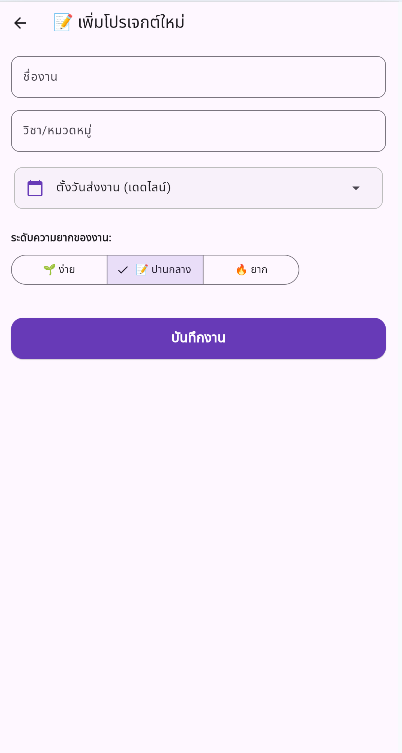
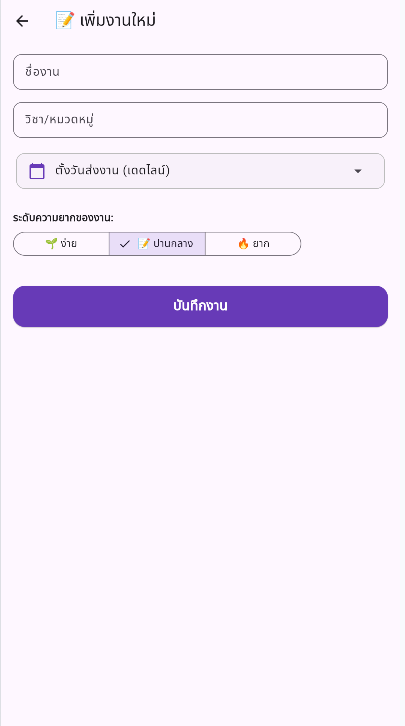
Miniproject

diff --git a/lib/screens/add_task.dart b/lib/screens/add_task.dart
@@ -34,7 +34,7 @@ class _AddTaskScreenState extends State<AddTaskScreen> {
   @override
   Widget build(BuildContext context) {
     return Scaffold(
-      appBar: AppBar(title: const Text('📝 เพิ่มโปรเจกต์ใหม่')),
+      appBar: AppBar(title: const Text('📝 เพิ่มงานใหม่')),
       body: SingleChildScrollView(
         padding: const EdgeInsets.all(16.0),
         child: Column(
